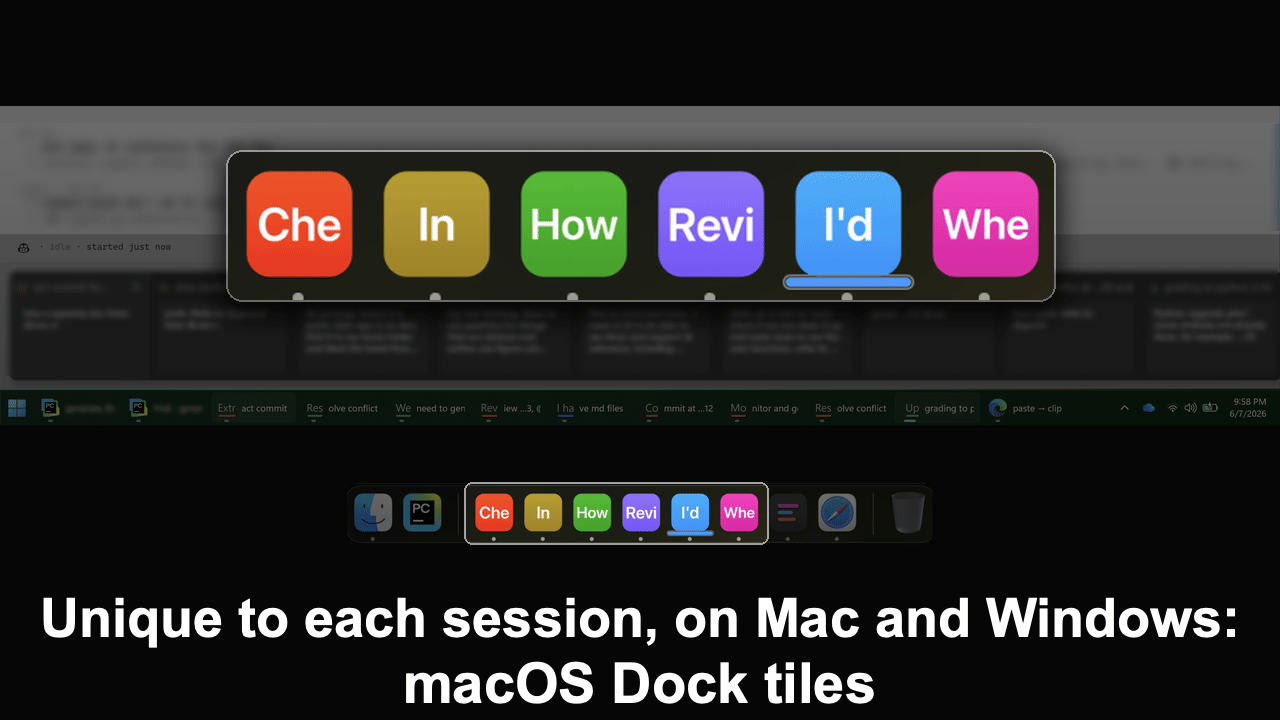
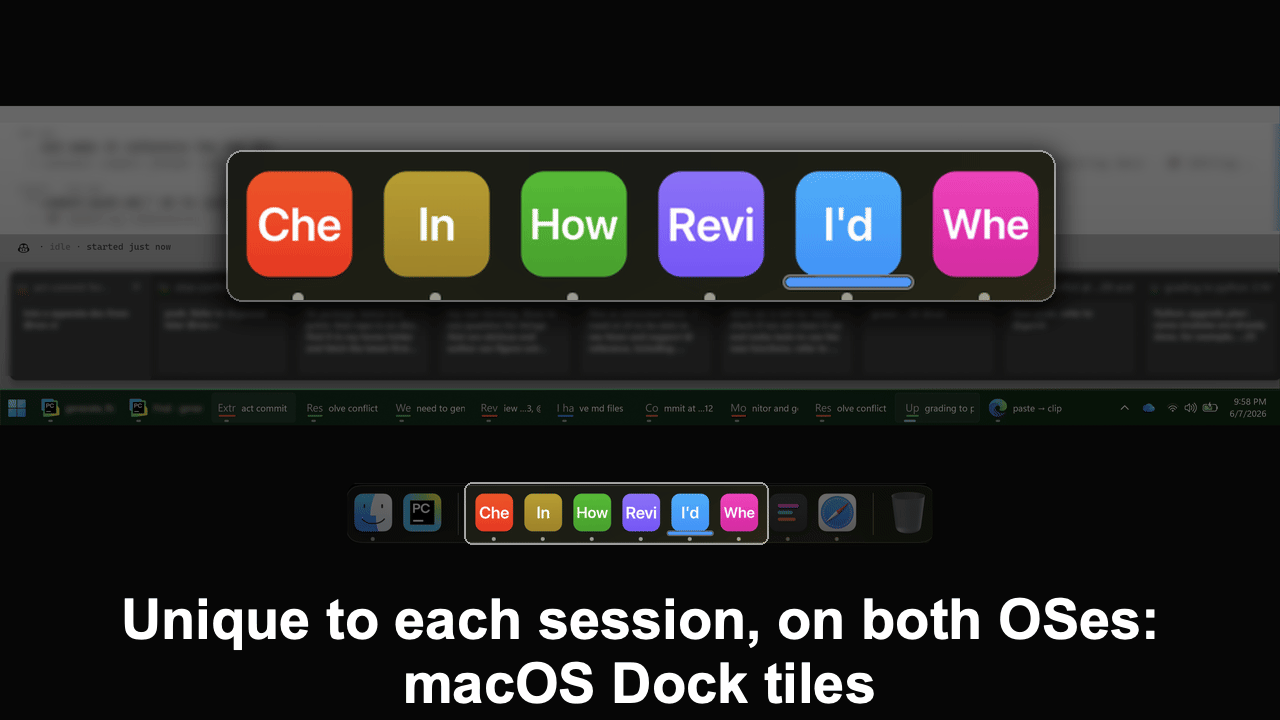
docs: shorten opening demo captions
Use both OSes in the shared line and taskbar buttons for the Windows frame. Preserve all screenshot content and animation timing; refresh asset URLs.

Changed region(s): [[0.0312, 0.825, 0.9688, 0.9167]]

diff --git a/README.md b/README.md
@@ -11,9 +11,9 @@
 
 A terminal for AI CLIs, expanding each session into its own rich visual workspace for the new way of working *(autoplays after loading)*:
 
-[![stills from the terminal: session tiles, the picker, commenting on output, writing on a plan, a curated review, and phone status and session views](docs/assets/hero-demo-8d2c473124eb.gif)](https://raw.githubusercontent.com/albertwujj/agent-term/main/docs/assets/hero-demo-8d2c473124eb.gif)
+[![stills from the terminal: session tiles, the picker, commenting on output, writing on a plan, a curated review, and phone status and session views](docs/assets/hero-demo-f2b2081d509f.gif)](https://raw.githubusercontent.com/albertwujj/agent-term/main/docs/assets/hero-demo-f2b2081d509f.gif)
 
-*View a frame:* [Tell apart 1](https://raw.githubusercontent.com/albertwujj/agent-term/main/docs/assets/frames/sessions-1.png?v=58ba9bae05b2) · [Tell apart 2](https://raw.githubusercontent.com/albertwujj/agent-term/main/docs/assets/frames/sessions-2.png?v=3f4fb7520021) · [Resume](https://raw.githubusercontent.com/albertwujj/agent-term/main/docs/assets/frames/resume.png) · [Comment](https://raw.githubusercontent.com/albertwujj/agent-term/main/docs/assets/frames/comment.png) · [Docs 1](https://raw.githubusercontent.com/albertwujj/agent-term/main/docs/assets/frames/docs-1.png) · [Docs 2](https://raw.githubusercontent.com/albertwujj/agent-term/main/docs/assets/frames/docs-2.png) · [Docs 3](https://raw.githubusercontent.com/albertwujj/agent-term/main/docs/assets/frames/docs-3.png) · [Code 1](https://raw.githubusercontent.com/albertwujj/agent-term/main/docs/assets/frames/code-1.png) · [Code 2](https://raw.githubusercontent.com/albertwujj/agent-term/main/docs/assets/frames/code-2.png) · [Code 3](https://raw.githubusercontent.com/albertwujj/agent-term/main/docs/assets/frames/code-3.png) · [Phone 1](https://raw.githubusercontent.com/albertwujj/agent-term/main/docs/assets/frames/phone-1-e58c3dbfe6c6.png) · [Phone 2](https://raw.githubusercontent.com/albertwujj/agent-term/main/docs/assets/frames/phone-2-1266e3d01d5d.png).
+*View a frame:* [Tell apart 1](https://raw.githubusercontent.com/albertwujj/agent-term/main/docs/assets/frames/sessions-1.png?v=79f36ffbdc56) · [Tell apart 2](https://raw.githubusercontent.com/albertwujj/agent-term/main/docs/assets/frames/sessions-2.png?v=10025b4964c5) · [Resume](https://raw.githubusercontent.com/albertwujj/agent-term/main/docs/assets/frames/resume.png) · [Comment](https://raw.githubusercontent.com/albertwujj/agent-term/main/docs/assets/frames/comment.png) · [Docs 1](https://raw.githubusercontent.com/albertwujj/agent-term/main/docs/assets/frames/docs-1.png) · [Docs 2](https://raw.githubusercontent.com/albertwujj/agent-term/main/docs/assets/frames/docs-2.png) · [Docs 3](https://raw.githubusercontent.com/albertwujj/agent-term/main/docs/assets/frames/docs-3.png) · [Code 1](https://raw.githubusercontent.com/albertwujj/agent-term/main/docs/assets/frames/code-1.png) · [Code 2](https://raw.githubusercontent.com/albertwujj/agent-term/main/docs/assets/frames/code-2.png) · [Code 3](https://raw.githubusercontent.com/albertwujj/agent-term/main/docs/assets/frames/code-3.png) · [Phone 1](https://raw.githubusercontent.com/albertwujj/agent-term/main/docs/assets/frames/phone-1-e58c3dbfe6c6.png) · [Phone 2](https://raw.githubusercontent.com/albertwujj/agent-term/main/docs/assets/frames/phone-2-1266e3d01d5d.png).
 
 *Dive deeper:* [Tell apart](docs/sessions.md#switch-to-the-right-running-session) · [Resume](docs/sessions.md#find-and-resume-sessions) · [Comment](docs/comment.md) · [Docs](docs/plan.md) · [Code](docs/review.md) · [Phone](docs/phone.md).
 
